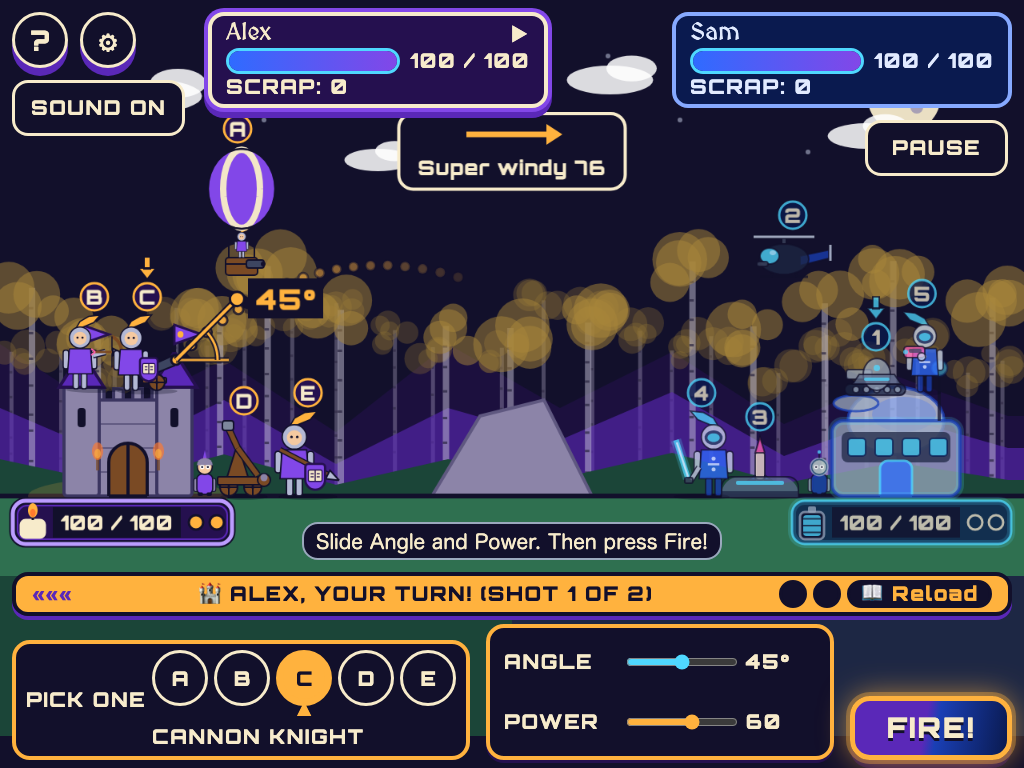
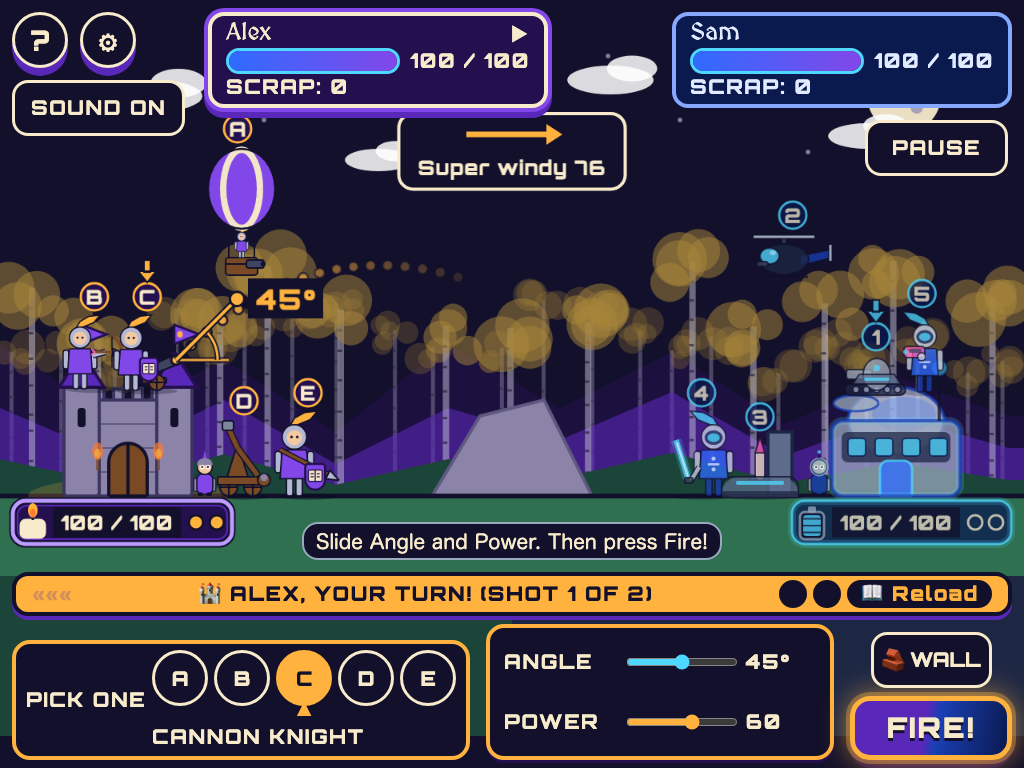
Start the match with two Enters from the Camp, and add Phase 2 screenshots
The keyboard test now presses Enter on the Battle Plan too. New shots
show the Battle Plan, the gear by Fire and the stone wall.

diff --git a/e2e/camp.spec.ts b/e2e/camp.spec.ts
@@ -76,6 +76,9 @@ test('Change players opens Setup with the saved players, then returns to the Cam
 test('the keyboard starts the match from the Camp', async ({ page }) => {
   await toCamp(page);
   await page.keyboard.press('Enter');
+  // The Battle Plan opens with Lock it in! focused, so a second Enter starts the match.
+  await expect(tid(page, 'plan-go')).toBeFocused();
+  await page.keyboard.press('Enter');
   await expect(tid(page, 'pass-screen')).toBeVisible({ timeout: 10_000 });
 });
 
